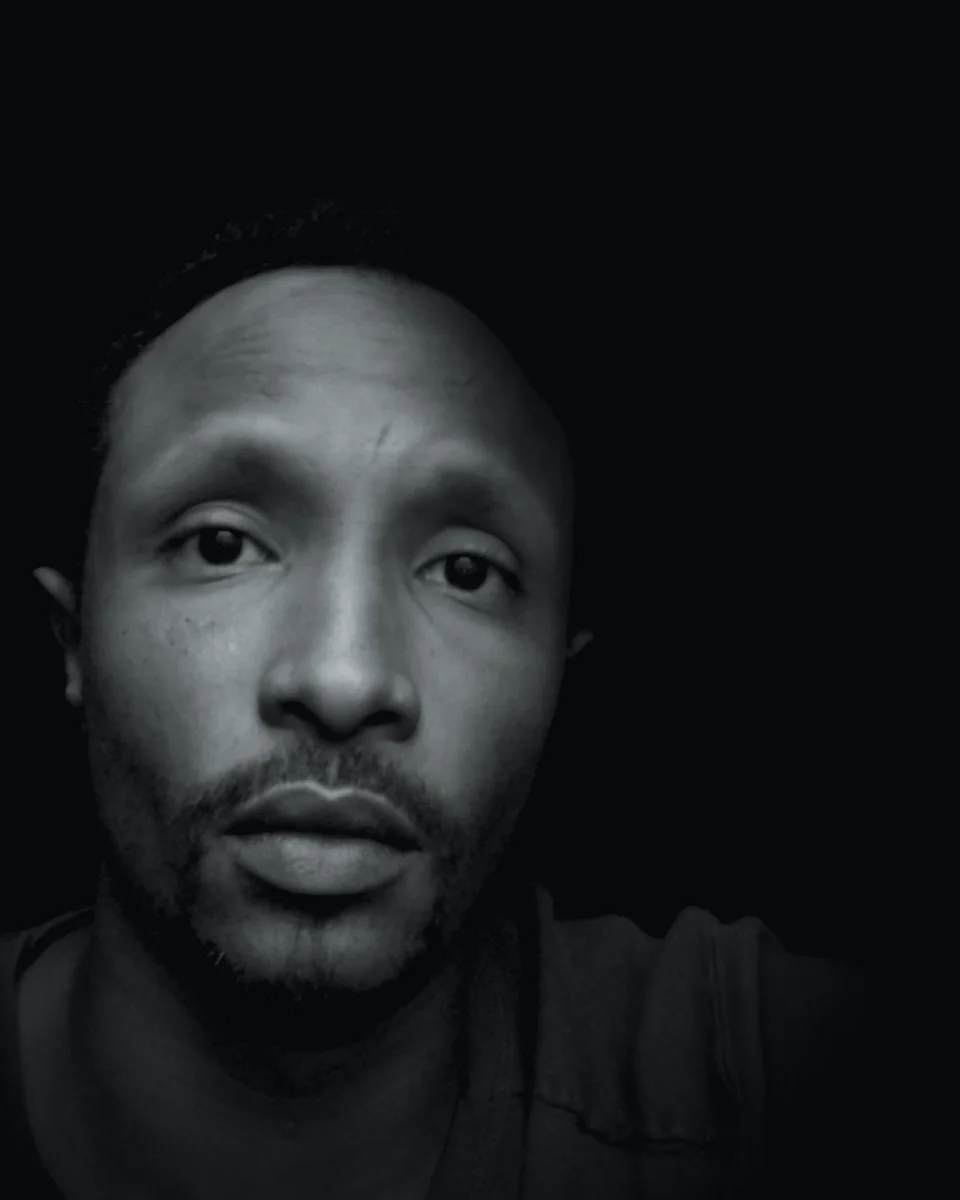
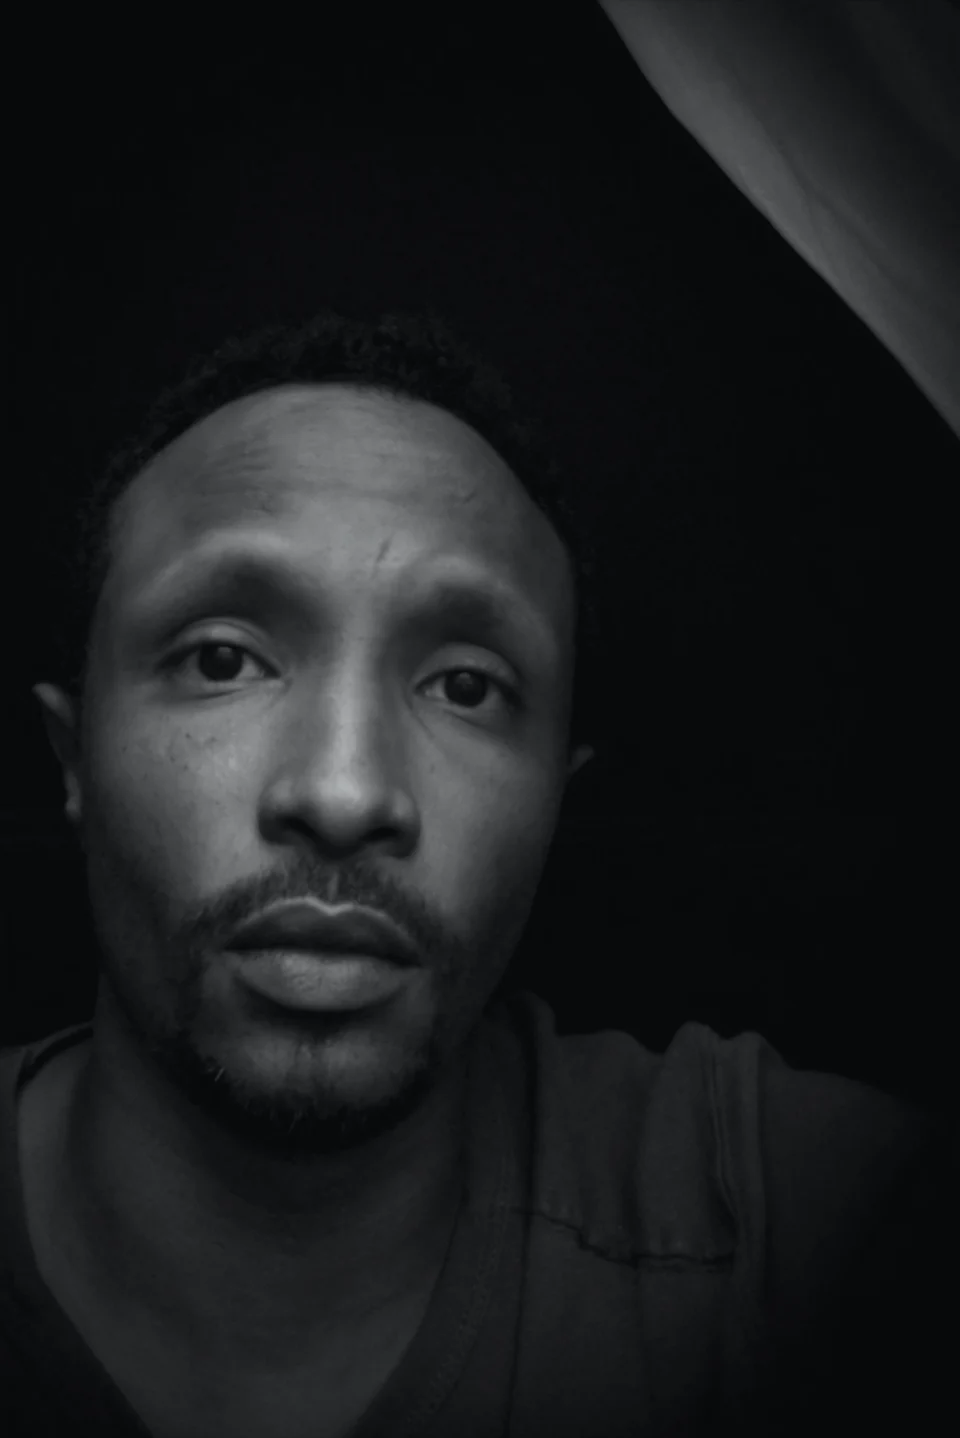
Show full uncropped portrait with lighter blending
Claude-Session: https://claude.ai/code/session_01RS8o3zh6kh7dY1ZDVcxNfi

diff --git a/404.html b/404.html
@@ -160,10 +160,9 @@ h2 .serif{color:var(--brand-2)}
 
 /* founder */
 .founder{display:grid;grid-template-columns:minmax(0,340px) 1fr;gap:72px;align-items:start}
-.portrait{position:sticky;top:120px;aspect-ratio:4/5;border-radius:20px;border:1px solid var(--line);overflow:hidden;background:var(--bg);display:flex;flex-direction:column;justify-content:flex-end;padding:22px;isolation:isolate}
-.portrait .ph{position:absolute;inset:0;width:100%;height:100%;object-fit:cover;object-position:50% 30%;z-index:-3;filter:contrast(1.04)}
-.portrait::before{content:"";position:absolute;inset:0;z-index:-2;background:radial-gradient(70% 55% at 30% 15%,rgba(0,194,203,.28),transparent 70%);mix-blend-mode:screen}
-.portrait::after{content:"";position:absolute;inset:0;z-index:-1;background:linear-gradient(to top,var(--bg) 0%,rgba(7,8,10,.85) 18%,transparent 48%),linear-gradient(to right,rgba(7,8,10,.35),transparent 30%)}
+.portrait{position:sticky;top:120px;aspect-ratio:1241/1859;border-radius:20px;border:1px solid var(--line);overflow:hidden;background:var(--bg);display:flex;flex-direction:column;justify-content:flex-end;padding:22px;isolation:isolate}
+.portrait .ph{position:absolute;inset:0;width:100%;height:100%;object-fit:cover;z-index:-2}
+.portrait::after{content:"";position:absolute;inset:0;z-index:-1;background:linear-gradient(to top,rgba(7,8,10,.8) 0%,rgba(7,8,10,.35) 14%,transparent 32%)}
 .portrait .mk{position:absolute;top:18px;right:18px;width:26px;height:auto;opacity:.9}
 .portrait .who b{display:block;font-size:21px;letter-spacing:-.02em}
 .portrait .who span{color:var(--muted);font-size:14px}
@@ -174,7 +173,7 @@ h2 .serif{color:var(--brand-2)}
 .timeline strong{color:var(--text);font-weight:600}
 .bigtext{font-size:clamp(22px,2.2vw,28px);line-height:1.4;letter-spacing:-.015em;color:var(--text);font-weight:500;margin-top:26px}
 .bigtext em{font-family:"Instrument Serif",serif;color:var(--brand-2);font-size:1.12em}
-@media (max-width:900px){.founder{grid-template-columns:1fr}.portrait{position:relative;top:0;aspect-ratio:4/5;max-width:300px;margin-inline:auto;width:100%}}
+@media (max-width:900px){.founder{grid-template-columns:1fr}.portrait{position:relative;top:0;aspect-ratio:1241/1859;max-width:300px;margin-inline:auto;width:100%}}
 @media (max-width:520px){.timeline li{grid-template-columns:1fr;gap:6px}}
 
 /* contact */
@@ -432,7 +431,7 @@ footer .wrap{display:flex;justify-content:space-between;gap:20px;flex-wrap:wrap;
   <section id="founder">
     <div class="wrap founder">
       <div class="portrait rv">
-        <img class="ph" src="assets/hassan.webp" alt="Portrait of Hassan Zarroug, founder of PICKSIL" width="960" height="1200" loading="lazy">
+        <img class="ph" src="assets/hassan.webp" alt="Portrait of Hassan Zarroug, founder of PICKSIL" width="960" height="1438" loading="lazy">
         <img class="mk" src="assets/picksil-p.png" alt="" width="34" height="33">
         <div class="who"><b>Hassan Zarroug</b><span>Founder & Independent Brand Strategist</span></div>
       </div>

diff --git a/index.html b/index.html
@@ -160,10 +160,9 @@ h2 .serif{color:var(--brand-2)}
 
 /* founder */
 .founder{display:grid;grid-template-columns:minmax(0,340px) 1fr;gap:72px;align-items:start}
-.portrait{position:sticky;top:120px;aspect-ratio:4/5;border-radius:20px;border:1px solid var(--line);overflow:hidden;background:var(--bg);display:flex;flex-direction:column;justify-content:flex-end;padding:22px;isolation:isolate}
-.portrait .ph{position:absolute;inset:0;width:100%;height:100%;object-fit:cover;object-position:50% 30%;z-index:-3;filter:contrast(1.04)}
-.portrait::before{content:"";position:absolute;inset:0;z-index:-2;background:radial-gradient(70% 55% at 30% 15%,rgba(0,194,203,.28),transparent 70%);mix-blend-mode:screen}
-.portrait::after{content:"";position:absolute;inset:0;z-index:-1;background:linear-gradient(to top,var(--bg) 0%,rgba(7,8,10,.85) 18%,transparent 48%),linear-gradient(to right,rgba(7,8,10,.35),transparent 30%)}
+.portrait{position:sticky;top:120px;aspect-ratio:1241/1859;border-radius:20px;border:1px solid var(--line);overflow:hidden;background:var(--bg);display:flex;flex-direction:column;justify-content:flex-end;padding:22px;isolation:isolate}
+.portrait .ph{position:absolute;inset:0;width:100%;height:100%;object-fit:cover;z-index:-2}
+.portrait::after{content:"";position:absolute;inset:0;z-index:-1;background:linear-gradient(to top,rgba(7,8,10,.8) 0%,rgba(7,8,10,.35) 14%,transparent 32%)}
 .portrait .mk{position:absolute;top:18px;right:18px;width:26px;height:auto;opacity:.9}
 .portrait .who b{display:block;font-size:21px;letter-spacing:-.02em}
 .portrait .who span{color:var(--muted);font-size:14px}
@@ -174,7 +173,7 @@ h2 .serif{color:var(--brand-2)}
 .timeline strong{color:var(--text);font-weight:600}
 .bigtext{font-size:clamp(22px,2.2vw,28px);line-height:1.4;letter-spacing:-.015em;color:var(--text);font-weight:500;margin-top:26px}
 .bigtext em{font-family:"Instrument Serif",serif;color:var(--brand-2);font-size:1.12em}
-@media (max-width:900px){.founder{grid-template-columns:1fr}.portrait{position:relative;top:0;aspect-ratio:4/5;max-width:300px;margin-inline:auto;width:100%}}
+@media (max-width:900px){.founder{grid-template-columns:1fr}.portrait{position:relative;top:0;aspect-ratio:1241/1859;max-width:300px;margin-inline:auto;width:100%}}
 @media (max-width:520px){.timeline li{grid-template-columns:1fr;gap:6px}}
 
 /* contact */
@@ -432,7 +431,7 @@ footer .wrap{display:flex;justify-content:space-between;gap:20px;flex-wrap:wrap;
   <section id="founder">
     <div class="wrap founder">
       <div class="portrait rv">
-        <img class="ph" src="assets/hassan.webp" alt="Portrait of Hassan Zarroug, founder of PICKSIL" width="960" height="1200" loading="lazy">
+        <img class="ph" src="assets/hassan.webp" alt="Portrait of Hassan Zarroug, founder of PICKSIL" width="960" height="1438" loading="lazy">
         <img class="mk" src="assets/picksil-p.png" alt="" width="34" height="33">
         <div class="who"><b>Hassan Zarroug</b><span>Founder & Independent Brand Strategist</span></div>
       </div>
